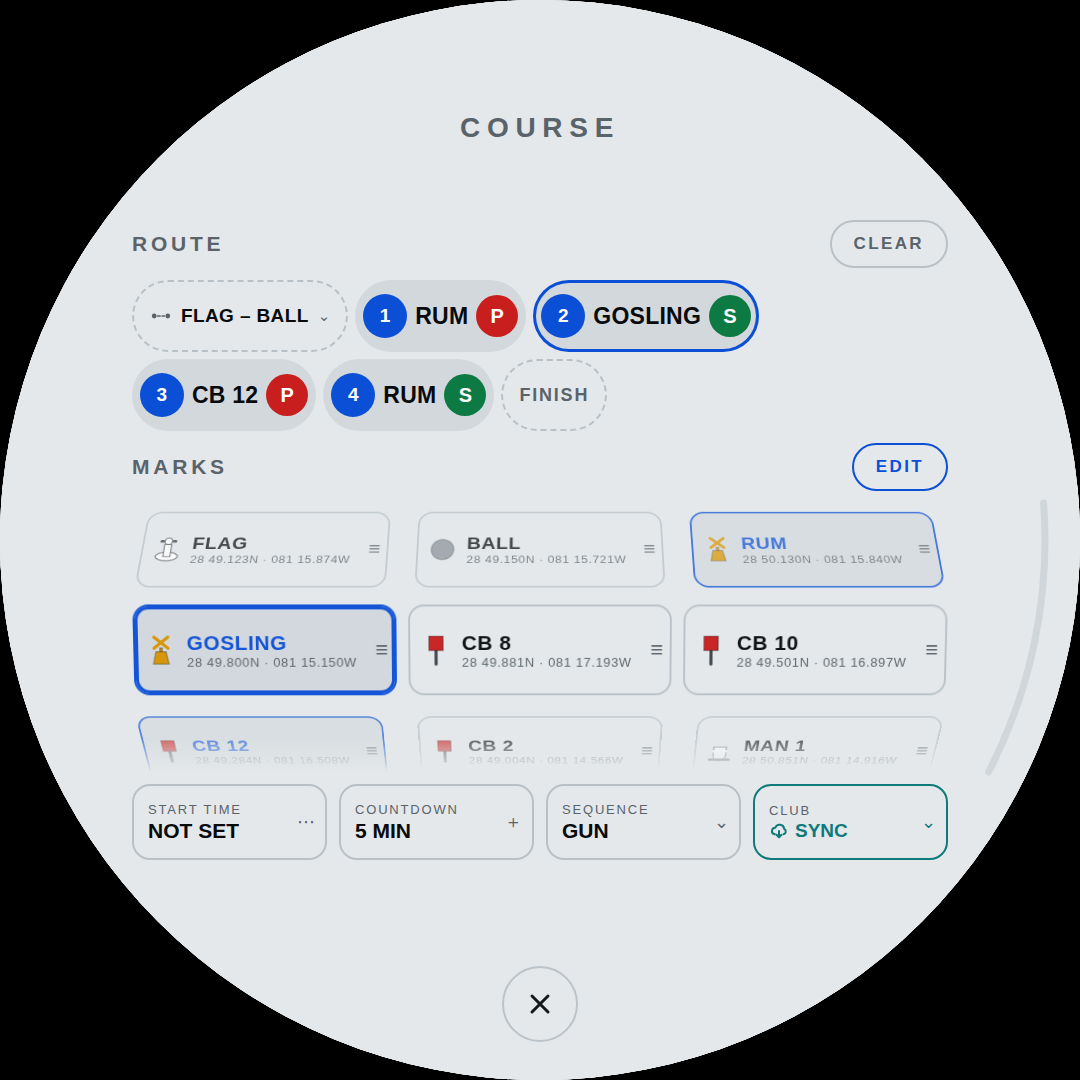
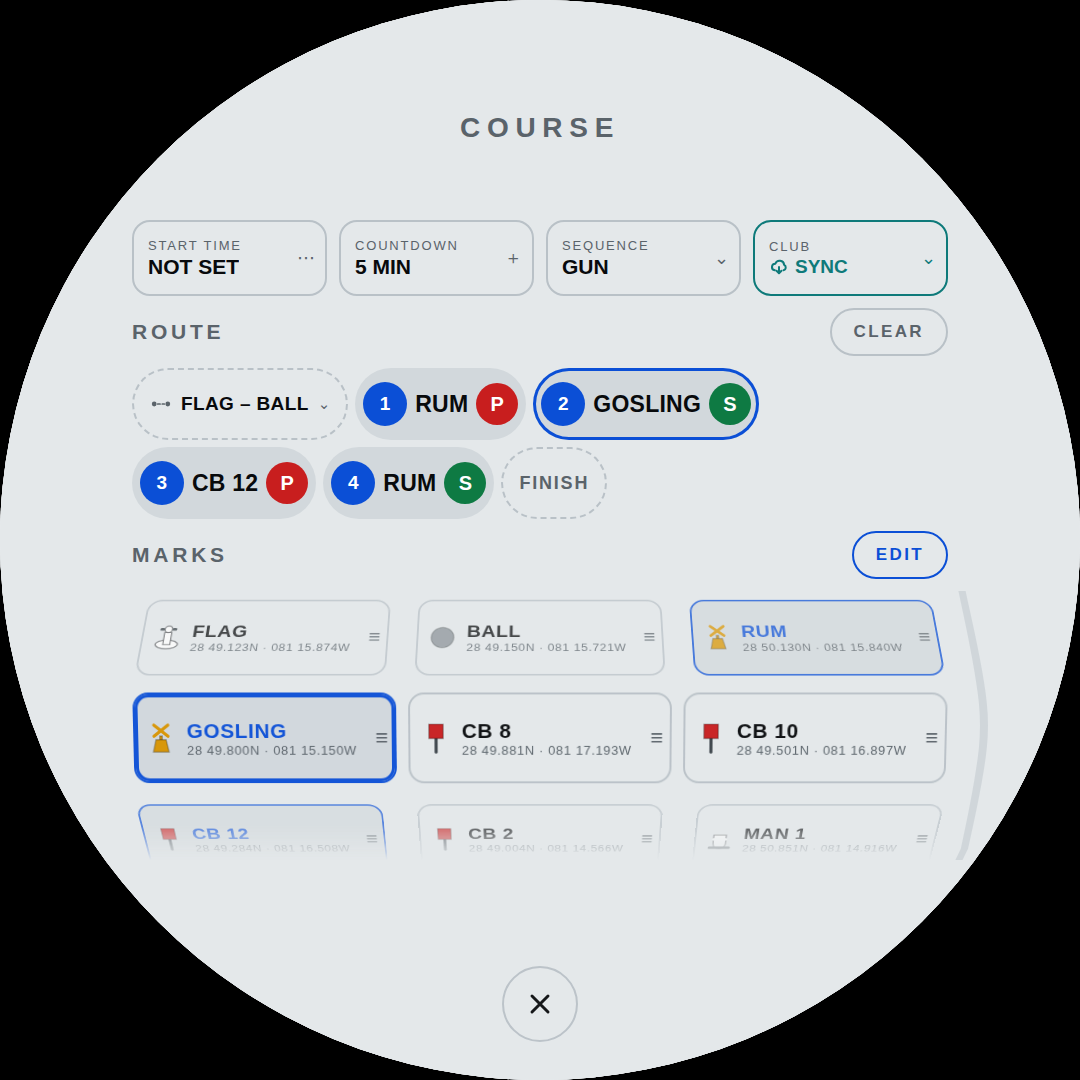
The evening goes to the top of the course sheet
START TIME, COUNTDOWN, SEQUENCE and CLUB were across the foot. That put
the one thing you set ONCE below the two you work at all evening, and
made the page read bottom-up. The row moves whole to under the heading,
so the sheet reads the evening, then the route, then the marks - the
order you actually do them in. Nothing else about the row changes: same
four readouts, same 816 width, same menus.

What the move forced is not cosmetic. Those menus opened UPWARD, and had
to: the row sat a hundred px off the bottom with the sheet's own button
bar under it, and a menu over that bar covered the way out. The bar went
some time ago and the row is at the top now, so upward is off the glass.
The `up` flag is gone and they fall into the sheet.

The suite caught the half of that I had not thought about: pick.mjs
still required the course sheet's menu to open above its readout, which
was right for as long as the row was at the foot. course is 125 with the
new order and both directions checked, pick 24 with the old assertion
inverted rather than deleted - where a menu opens is worth asserting,
and now it asserts the truth.

Four other layouts were drawn before this one: the same move with the
row tightened to 56 px, which buys a third full row of marks; the same
with the two clock facts grouped apart from the rest; and one that
divides them by what they are ABOUT, sending CLUB down to the ROUTE
heading because what it loads is a route and not a time. This is the
[…]

diff --git a/confluence_helm.html b/confluence_helm.html
@@ -2635,6 +2635,17 @@ document.body.className = THEME_EFF==='day' ? '' : THEME_EFF;
     <div class="t-title" id="course-title">Course</div>
     <div id="course-main">
       <div class="cv">
+        <!-- The evening, first: what is left once the line has gone up
+             to the route where it belongs. It sat across the foot, which
+             put the thing you set ONCE below the two you work at all
+             evening - and read bottom-up. The club is one of them,
+             keeping its own colour: see --club. -->
+        <div class="cv-set">
+          <button class="cvr" id="cv-start"></button>
+          <button class="cvr" id="cv-mins"></button>
+          <button class="cvr" id="cv-mode"></button>
+          <button class="cvr club" id="cv-sync"></button>
+        </div>
         <!-- ROUTE: the two ends of the line with the marks between them,
              and the one control that belongs to a route - emptying it. -->
         <div class="cv-hd"><span>Route</span>
@@ -2655,15 +2666,6 @@ document.body.className = THEME_EFF==='day' ? '' : THEME_EFF;
         <div class="cv-hd"><span>Marks</span>
           <button class="cv-act" id="course-edit">Edit</button></div>
         <div class="cv-grid noscroll" id="course-list"></div>
-        <!-- The evening, on one row: what is left once the line has gone
-             up to the route where it belongs. The club is one of them,
-             keeping its own colour: see --club. -->
-        <div class="cv-set">
-          <button class="cvr" id="cv-start"></button>
-          <button class="cvr" id="cv-mins"></button>
-          <button class="cvr" id="cv-mode"></button>
-          <button class="cvr club" id="cv-sync"></button>
-        </div>
       </div>
     </div>
     <!-- A mark of your own: a name, and a position typed or taken from
@@ -9594,7 +9596,12 @@ const cvpOn=()=>PICK && PICK.own==='course' ? PICK : null;
 
 function cvpOpen(kind){
   pickOpen({ key:'cv:'+kind, own:'course', kind:kind, end:'pin',
-             at:cvpBtn(kind), width:330, up:kind!=='line',
+             /* No `up`: every one of these controls is at the head of
+                the sheet now, so its menu falls into the sheet rather
+                than off the top of the glass. The settings row asked for
+                `up` when it was across the foot with the sheet's own
+                button bar under it - and both of those are gone. */
+             at:cvpBtn(kind), width:330,
              hold:$('course-main'), peers:'.cvr,.cv-line',
              head:cvpHead, list:cvpBody, foot:cvpFoot,
              mark:cvpMark, tap:cvpTap });

diff --git a/docs/readings.md b/docs/readings.md
@@ -563,7 +563,7 @@ route: you start on the line, you round these, you come home to it.
 ### The four settings
 
 **Everything about the evening that is not the course itself is one row
-under the marks**, drawn the way the dial's readings are — a small label
+under the heading**, drawn the way the dial's readings are — a small label
 over a value — because that is what they are: things you read at a
 glance and only occasionally change.
 
@@ -574,9 +574,12 @@ glance and only occasionally change.
 | `SEQUENCE` | `GUN` or `WINDOW` | opens a menu: both, with what each does to the line |
 | `CLUB` | `SYNC`, `CHECKING…`, `4 MARKS?` | asks the club site and opens on the answer — see below |
 
-The two clock facts are next to each other because between them they say
-when the countdown starts, which neither says alone. The row is 816 wide,
-the same as the strip and the marks above it, so its ends line up with
+The row is at the **head** of the sheet, above the route and the marks.
+It sat across the foot, which put the thing you set once below the two
+you work at all evening, and made the page read bottom-up. The two clock
+facts are next to each other because between them they say when the
+countdown starts, which neither says alone. The row is 816 wide, the
+same as the strip and the marks below it, so its ends line up with
 both — it was 940 and hanging 62 px proud of each when there were five
 readings and a button row holding it higher up the glass.
 
@@ -596,8 +599,12 @@ supplies is the rows, the head and foot, and what a tap means. It opens
 and a menu over that covers the way out — and on the value already in
 force, so the choice you have is under your finger. With one open, a tap
 on another of them moves it; a tap anywhere else puts it away, and that
-tap does nothing else. The line's menu is the exception that opens
-*downwards*: its control is at the top of the sheet, not the bottom.
+tap does nothing else.
+
+They all open **downwards**, into the sheet. They asked to open upwards
+for as long as the row was across the foot with the sheet's own button
+bar under it — a menu over that bar covered the way out. The bar is gone
+and the row is at the top, so upwards is now off the glass.
 
 **`START LINE` is which line the race starts *and* finishes on**, and it
 is the one fact on this sheet you cannot work out from anything else on
